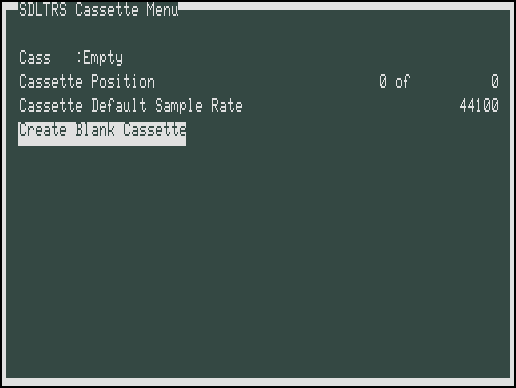
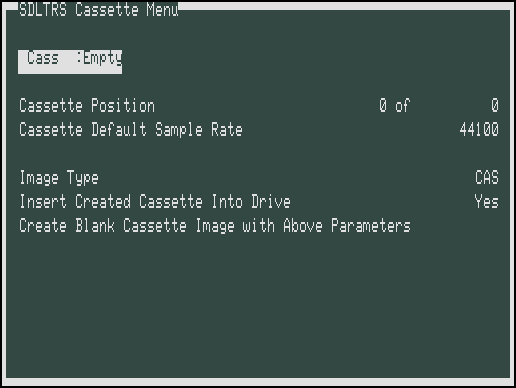
Update documentation and images

diff --git a/docs/TextGUI.html b/docs/TextGUI.html
@@ -25,6 +25,7 @@
   <li><a href="#Floppy_Disk_Management">Floppy Disk Management</a></li>
   <li><a href="#Hard_Disk_Management">Hard Disk Management</a></li>
   <li><a href="#Cassette_Management">Cassette Management</a></li>
+  <li><a href="#Stringy_Wafer_Management">Stringy Wafer Management</a></li>
   <li><a href="#Emulator_Settings">Emulator Settings</a></li>
   <li><a href="#ConfigurationState">Configuration/State File Management</a></li>
   <li><a href="#Printer_Management">Printer Management</a></li>
@@ -70,7 +71,7 @@ new disk images, and set emulated disk drive options.</p>
 
 <h3>Save Disk Set:</h3>
 
-<p>This ote, allows the user to save the names of the disk images that are
+<p>This option allows the user to save the names of the disk images that are
 currently in the drives to a file, to be loaded later. The file that the set
 is save in has an extension of <code>.set</code>, and it is a human readable
 text file, containing the paths of the image files, or a blank line for a
@@ -149,13 +150,13 @@ create new disk images.</p>
   <li>Hitting <b>Backspace</b> will remove a disk image if there is one in the
       drive.</li>
   <li>Hitting <b>Space</b> will toggle the write protect for the drive.
-      The indicator for write protect is an asterisk "*" in front of the "Disk"
+      The indicator for write protect is an asterisk "*" in front of the "Hard"
       in the menu item.</li>
 </ul>
 
 <h3>Save Disk Set:</h3>
 
-<p>This ote, allows the user to save the names of the disk images that are
+<p>This option allows the user to save the names of the disk images that are
 currently in the drives to a file, to be loaded later. The file that the set
 is save in has an extension of <code>.set</code>, and it is a human readable
 text file, containing the paths of the image files, or a blank line for a
@@ -170,14 +171,14 @@ specified in the file into the corresponding drives. If a drive in the set
 file is a blank line, no changes are made to the drive. This allows the user
 to load multiple disk sets sequentially.</p>
 
-<p><img alt="" src="images/TextGUIHardCreateMenu.png"></p>
-
-<p>In the Create Hard Disk Image window, you may choose a format of a disk.
-(See the <a href="Features.html#Emulated_hard_disks">Features</a> page for
-info on the hard disk formats).</p>
+<p>The next four options allows you to specify parameters for creating a hard
+disk image (See the <a href="Features.html#Emulated_hard_disks">Features</a>
+page for info on the hard disk formats).</p>
 
 <p>If the "Insert Created Disk Into This Drive" is set to something besides
 none, the created image will be mounted on the specified hard drive.</p>
+
+<p>The final option allows you to create a blank hard disk image.</p>
 
 <h2><a name="Cassette_Management"></a><u>Cassette Management</u></h2>
 
@@ -199,17 +200,35 @@ images into the emulated drive, as well as create new cassette images.</p>
 changing the Position field. Valid values are 0 (fully rewound) through the
 number of bytes on the tape (at end of tape).</p>
 
-<p>The third options allows you to define the default sample rate in Hz.</p>
+<p>The third option allows you to define the default sample rate in Hz.</p>
+
+<p>The fourth option allows you to choose a format of a cassette
+(<code>.cas</code> or <code>.wav</code>).</p>
+
+<p>If the "Insert Created Cassette Into Drive" is set to Yes, the created
+image will be used in the cassette drive.</p>
 
 <p>The final option allows you to create a blank cassette image.</p>
 
-<p><img alt="" src="images/TextGUICassetteCreateMenu.png"></p>
+<h2><a name="Stringy_Wafer_Management"></a><u>Stringy Wafer Management</u></h2>
 
-<p>In the Create Cassette Image window, you may choose a format of a cassette
-(<code>.cas</code> or <code>.wav</code>).</p>
+<p><img alt="" src="images/TextGUIStringyMenu.png"></p>
 
-<p>If the "Insert Created Disk Into This Drive" is set to Yes, the created
-image will be mounted on the specified hard drive.</p>
+<p>The stringy wafer management menu allows you to insert and remove wafer
+images into the emulated drives, as well as save and load disk sets, and
+create new wafer images with default parameters.</p>
+
+<p>For the first 7 options in the menu, there are three options:</p>
+
+<ul>
+  <li>Hitting <b>Enter</b> while the item is selected, will move to the image
+      selection screen, which is explained above in the floppy disk section.</li>
+  <li>Hitting <b>Backspace</b> will remove a disk image if there is one in the
+      drive.</li>
+  <li>Hitting <b>Space</b> will toggle the write protect for the wafer.
+      The indicator for write protect is an asterisk "*" in front of the
+      "Wafer" in the menu item.</li>
+</ul>
 
 <h2><a name="Emulator_Settings"></a><u>Emulator Settings</u></h2>
 
@@ -222,6 +241,10 @@ image will be mounted on the specified hard drive.</p>
 <h3>Lowercase:</h3>
 
 <p>Emulate a "Lowercase Modification Kit" for the TRS-80 Model I.</p>
+
+<h3>Exatron Stringy Floppy:</h3>
+
+<p>Emulates up to 7 Stringy Floppy Wafers for the TRS-80 Model I.</p>
 
 <h3>Graphics Emulations:</h3>
 

diff --git a/docs/Options.html b/docs/Options.html
@@ -179,6 +179,26 @@ and that state will be restored upon startup of the emulator.</p>
         emulated cassette drive.</td>
   </tr>
   <tr>
+    <td><code>-stringy</code></td>
+    <td>In Model I mode, emulate the Exatron Stringy Floppy Drive.</td>
+  </tr>
+  <tr>
+    <td><code>-nostringy</code></td>
+    <td>Do not emulate the Exatron Stringy Floppy Drive in Model I mode.
+        This is the default.</td>
+  </tr>
+  <tr>
+    <td><code>-stringy0 filename<br>
+              -stringy1 filename<br>
+              -stringy2 filename<br>
+              -stringy3 filename<br>
+              -stringy4 filename<br>
+              -stringy5 filename<br>
+              -stringy6 filename</code></td>
+    <td>Specifies the name of the stringy wafer image file to be inserted
+        into Wafer<code>N</code>, where <code>N</code>=0 through 6.</td>
+  </tr>
+  <tr>
     <td><code>-microlabs</code></td>
     <td>In Model III or 4/4P mode, emulate the Micro Labs Grafyx Solution
         Hi-Res graphics card. Note that the Model III and Model 4/4P cards

diff --git a/docs/Features.html b/docs/Features.html
@@ -230,7 +230,7 @@ keyboard memory by pattern-matching its stack.</p>
     <td>Set windowed mode scaling to next lower size (3x, 2x, 1x and then wraps)</td>
   </tr>
   <tr>
-    <td><b>LeftAlt-Enter</b></td>
+    <td><b>Alt-Enter</b></td>
     <td>Switch from Windowed to Fullscreen mode and back.<br>
   </tr>
   <tr>
@@ -244,6 +244,10 @@ keyboard memory by pattern-matching its stack.</p>
   <tr>
     <td><b>Alt-T</b></td>
     <td>Enter Cassette (Tape) Management GUI</td>
+  </tr>
+  <tr>
+    <td><b>Alt-G</b></td>
+    <td>Enter Stringy Floppy Wafer Management GUI</td>
   </tr>
   <tr>
     <td><b>Alt-E</b></td>
